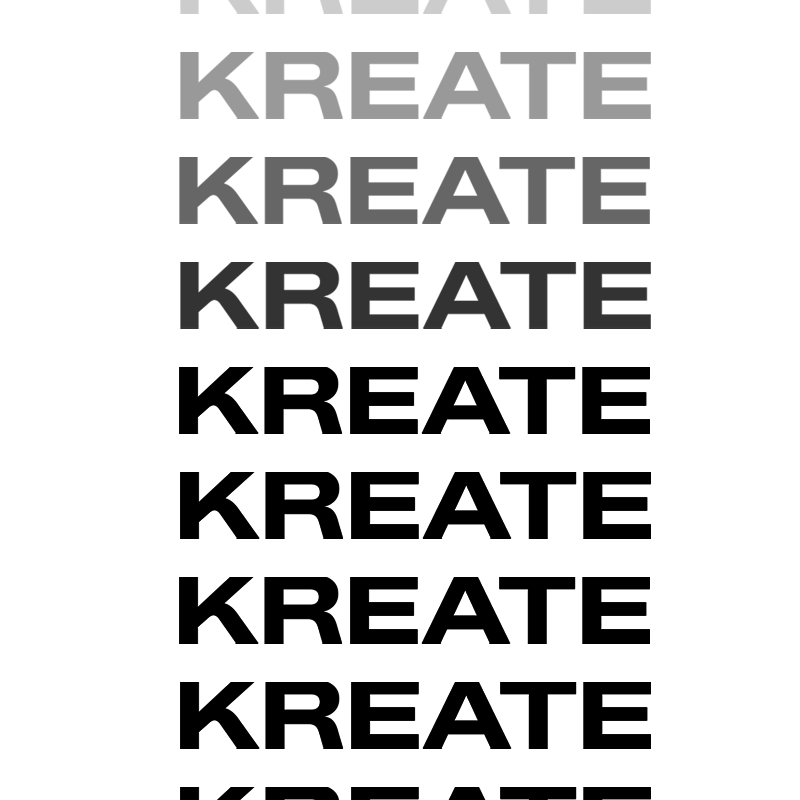
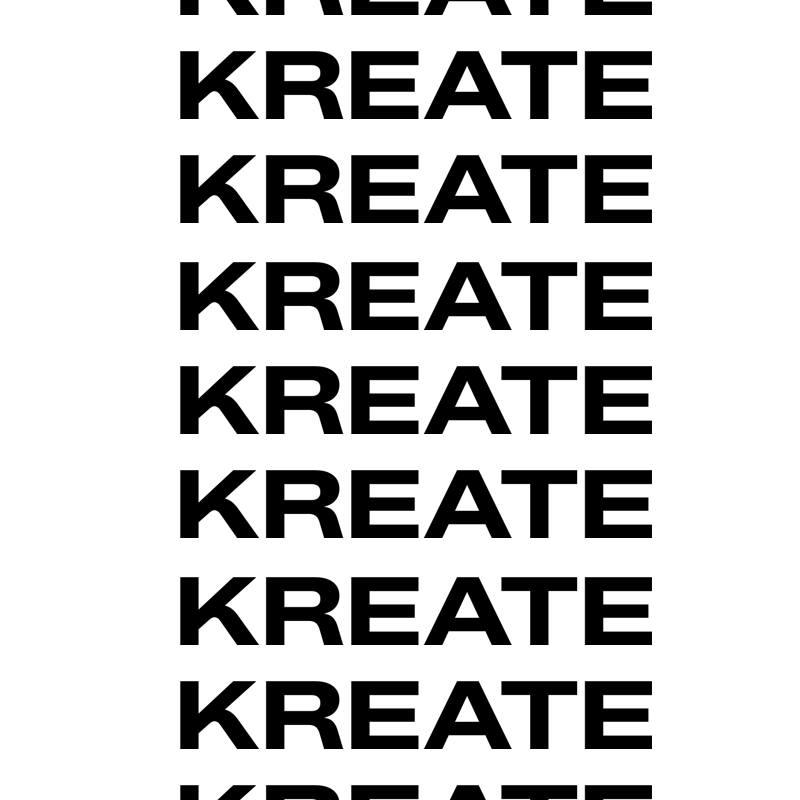
Form Image Changed

diff --git a/css/style.css b/css/style.css
@@ -10,10 +10,6 @@ html {
     font-size: 62.5%;
 }
 
-body {
-    animation: fade 1s forwards;
-}
-
 :focus {
     outline: none;
     border: none;
